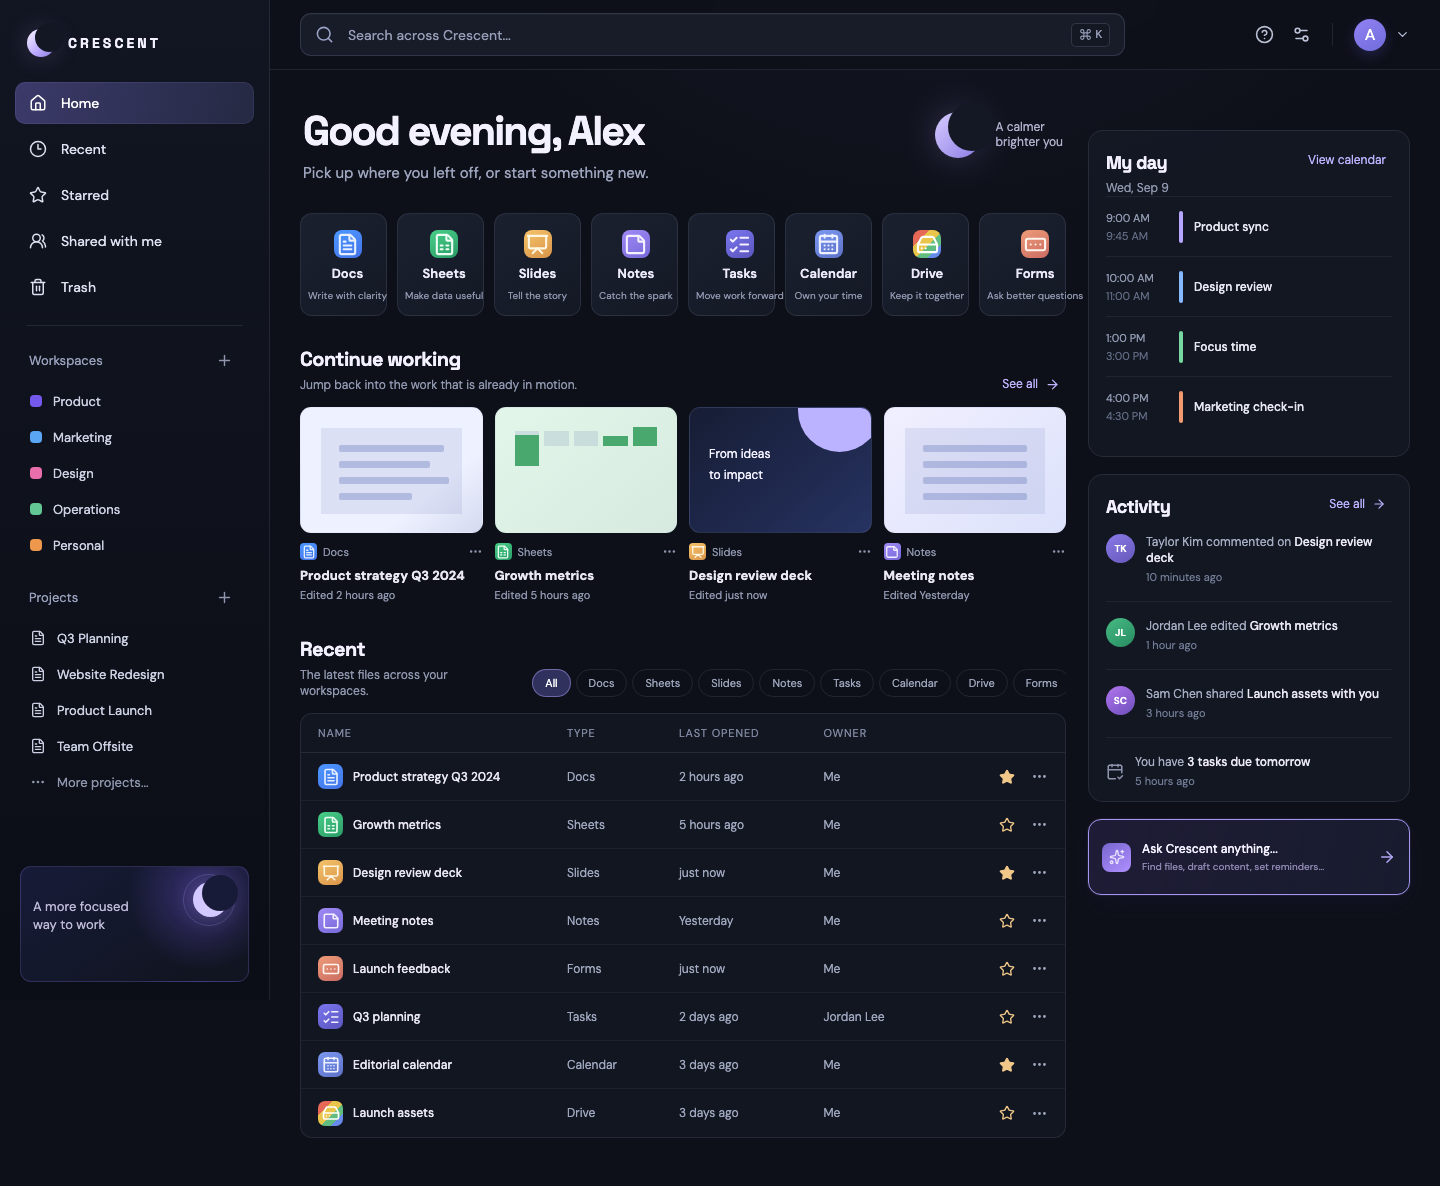
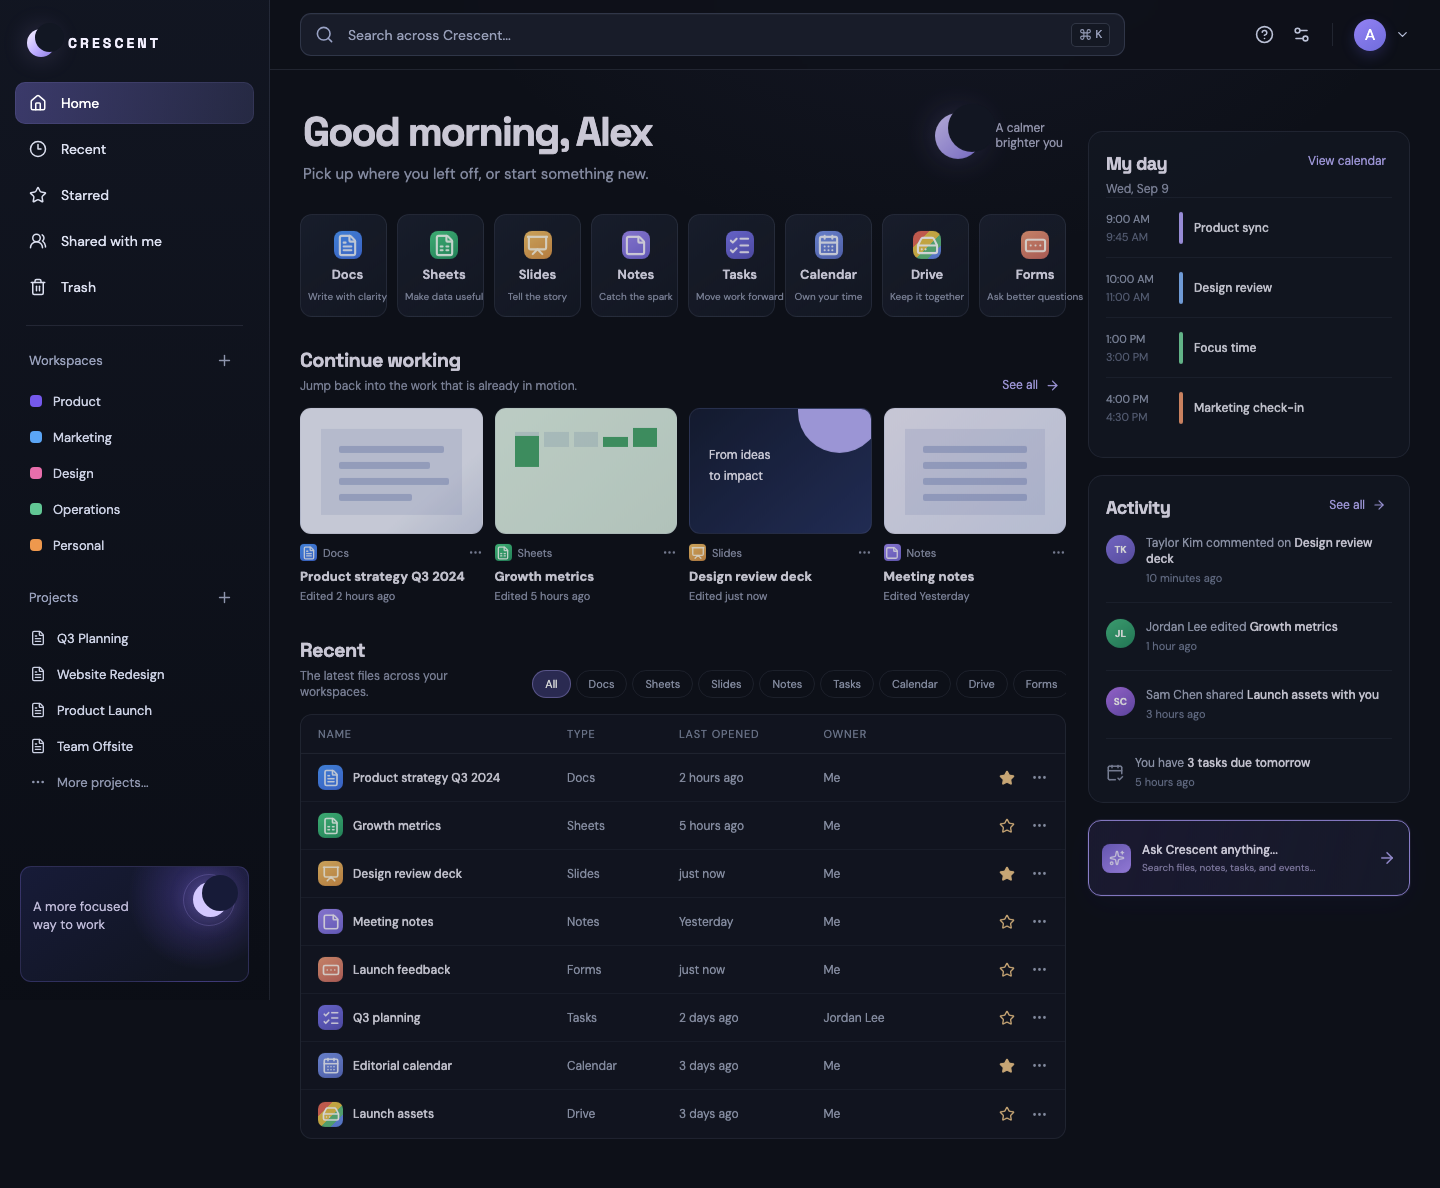
Make Home greeting time aware

diff --git a/src/App.jsx b/src/App.jsx
@@ -263,13 +263,15 @@ function SearchResults({ query, onNavigate, workspace }) {
 function HomeView({ workspace, update, onNavigate, onFocusSearch }) {
   const [filter, setFilter] = useState("All");
   const recentFiles = getLiveRecentFiles(workspace);
+  const currentHour = new Date().getHours();
+  const greeting = currentHour < 12 ? "Good morning" : currentHour < 18 ? "Good afternoon" : "Good evening";
   const files = filter === "All" ? recentFiles : recentFiles.filter((file) => file.type === filter);
   const localSchedule = (workspace.calendarEvents ?? []).slice(0, 2).map((event) => ({ ...event, time: "Saved", end: "Local", color: "periwinkle" }));
   const toggleStar = (event, file) => { event.stopPropagation(); const starredTitles = getStarredTitles(workspace); if (starredTitles.has(file.title)) starredTitles.delete(file.title); else starredTitles.add(file.title); update({ starredFiles: [...starredTitles] }); emitNotice(starredTitles.has(file.title) ? `${file.title} added to Starred.` : `${file.title} removed from Starred.`); };
   return <div className="home-layout page-enter">
     <main className="home-main">
       <section className="home-hero">
-        <div><h1>Good evening, Alex</h1><p>Pick up where you left off, or start something new.</p></div>
+        <div><h1>{greeting}, Alex</h1><p>Pick up where you left off, or start something new.</p></div>
         <div className="hero-moon"><span className="hero-moon-shape" /><span>A calmer<br />brighter you</span></div>
       </section>
       <section className="app-launcher" aria-label="Crescent apps">

diff --git a/README.md b/README.md
@@ -4,7 +4,7 @@ An all-in-one productivity workspace built to keep the work in one calm, consist
 
 ## Current release
 
-**v0.1.104 — CI smoke covers core interactions**
+**v0.1.105 — Home greeting follows local time**
 
 The first release establishes the Crescent product shell and a local-first suite experience:
 
@@ -46,6 +46,7 @@ The first release establishes the Crescent product shell and a local-first suite
 - Home’s “Ask Crescent anything…” card now focuses the shared global search and matches its real local-first behavior
 - Sheets local formulas now support SUM, AVERAGE, MIN, and MAX over visible cell ranges
 - CI smoke now verifies the new local formula path and Forms type/delete controls in addition to routes, layout, search, and Calendar Month
+- Home now greets the local browser with morning, afternoon, or evening language and the committed dashboard preview reflects the current time
 - Home reflects saved local calendar events, and Forms keeps its published/response state across navigation
 - Global Search includes locally created tasks, Drive folders, and Calendar events with correct app routing
 - Tasks now filters between All, Today, Open, and Done from the shared editor header

diff --git a/docs/preview/README.md b/docs/preview/README.md
@@ -1,4 +1,4 @@
-# v0.1.104 visual preview
+# v0.1.105 visual preview
 
 These screenshots are committed with Crescent milestones so the product can be reviewed directly from GitHub. The live preview is deployed from `main` through GitHub Pages when Pages is enabled for the repository.
 
